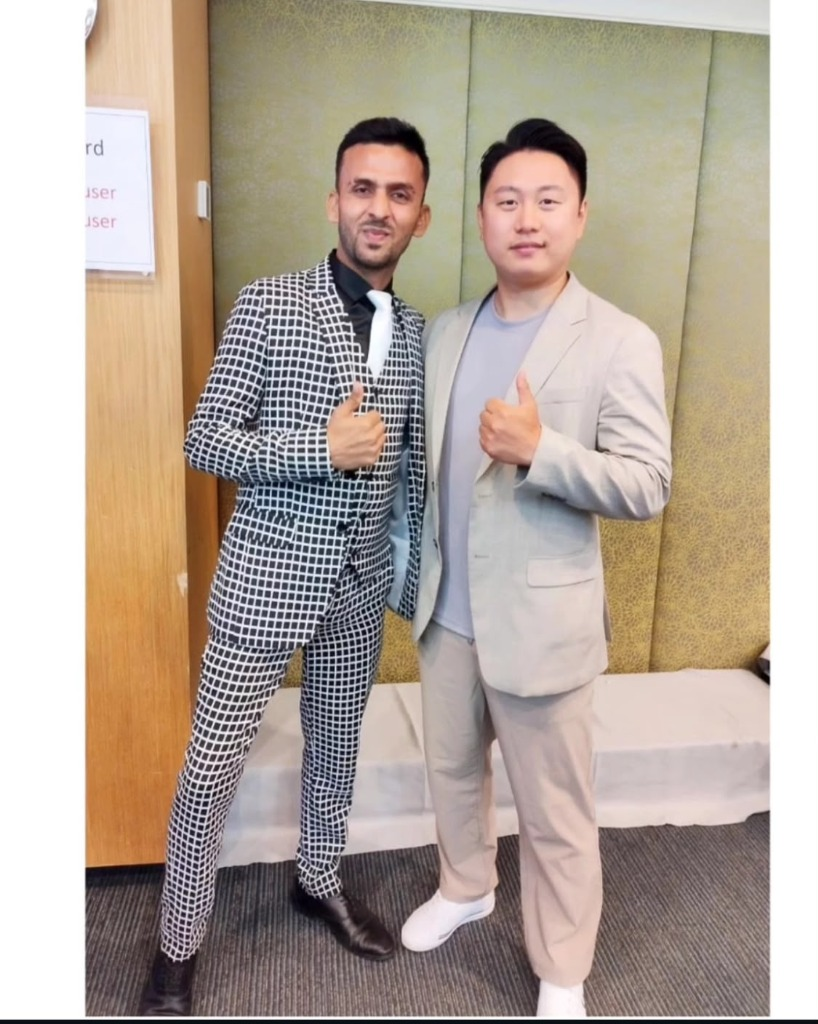
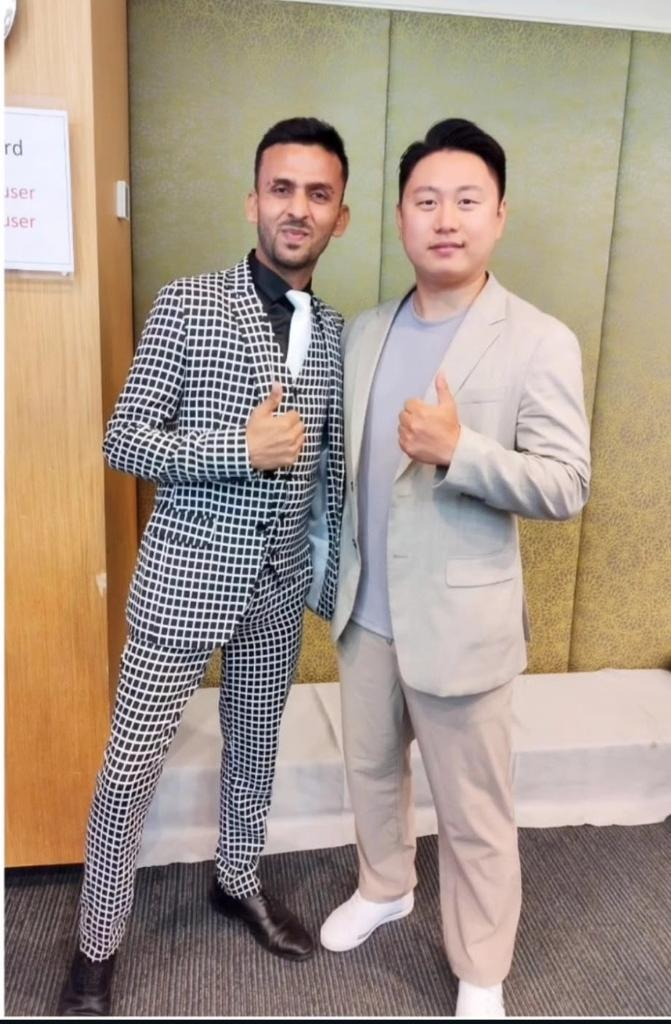
Trim white borders, update philosophy image to new_event_05, and include certificate milestone images in gallery

diff --git a/app/gallery/page.tsx b/app/gallery/page.tsx
@@ -1,5 +1,10 @@
 export default function Gallery() {
   const galleryItems = [
+    { src: '/certificates/cert_01.jpg', label: 'Foundation Program Certificate' },
+    { src: '/certificates/cert_02.jpg', label: 'Certificate of Appreciation' },
+    { src: '/certificates/cert_03.jpg', label: 'Recognition of Excellence' },
+    { src: '/certificates/cert_04.jpg', label: 'Leadership Advancement' },
+    { src: '/certificates/cert_05.jpg', label: 'Team Building & Performance' },
     { src: '/gallery/new_event_01.jpg', label: 'Executive Mentorship & Networking' },
     { src: '/gallery/new_event_02.jpg', label: 'Global Team Synergy' },
     { src: '/gallery/new_event_03.jpg', label: 'Strategic Planning Workshop' },
@@ -28,7 +33,7 @@ export default function Gallery() {
                 <span className="text-xs font-bold uppercase tracking-widest text-eros-gold">Team Moments & Culture</span>
                 <h1 className="font-heading text-4xl md:text-5xl font-bold text-slate-900 dark:text-white mt-2 mb-4">Our People & Culture</h1>
                 <p className="text-slate-600 dark:text-slate-400 text-lg leading-relaxed">
-                    A 100% authentic glimpse into real team moments, leadership workshops, international networking, and training sessions at Eros Inc.
+                    A 100% authentic glimpse into real team moments, certified achievers, leadership workshops, international networking, and training sessions at Eros Inc.
                 </p>
             </div>
 
@@ -36,7 +41,7 @@ export default function Gallery() {
             <div className="grid grid-cols-1 sm:grid-cols-2 lg:grid-cols-3 gap-6">
                 {galleryItems.map((item, idx) => (
                   <div key={idx} className="group relative rounded-2xl overflow-hidden aspect-[4/3] bg-slate-100 dark:bg-eros-card border border-slate-200 dark:border-eros-border shadow-md hover:shadow-2xl transition-all duration-300 transform hover:-translate-y-1">
-                      <img src={item.src} alt={item.label} className="w-full h-full object-cover group-hover:scale-105 transition-transform duration-500" />
+                      <img src={item.src} alt={item.label} className="w-full h-full object-cover object-top group-hover:scale-105 transition-transform duration-500" />
                       <div className="absolute inset-0 bg-gradient-to-t from-black/80 via-transparent to-transparent opacity-0 group-hover:opacity-100 transition-opacity duration-300 flex items-end p-4">
                           <span className="text-white font-medium text-xs tracking-wider uppercase bg-white/20 backdrop-blur-md px-3 py-1.5 rounded-full border border-white/30">
                               {item.label}

diff --git a/app/philosophy/page.tsx b/app/philosophy/page.tsx
@@ -53,7 +53,7 @@ export default function Philosophy() {
                 </div>
 
                 <div className="relative rounded-3xl overflow-hidden border border-slate-200 dark:border-eros-border shadow-2xl group aspect-[4/3]">
-                    <img src="/gallery/new_event_01.jpg" alt="Eros Inc Team & Culture" className="w-full h-full object-cover group-hover:scale-105 transition duration-500" />
+                    <img src="/gallery/new_event_05.jpg" alt="Eros Inc Team & Culture" className="w-full h-full object-cover object-top group-hover:scale-105 transition duration-500" />
                     <div className="absolute inset-0 bg-gradient-to-t from-black/80 via-black/20 to-transparent flex flex-col justify-end p-8">
                         <div className="inline-flex items-center gap-2 px-3 py-1 bg-eros-cyan/20 backdrop-blur-md rounded-full text-eros-cyan text-xs font-semibold w-fit mb-2 border border-eros-cyan/30">
                             <Sparkles className="w-3.5 h-3.5" /> 50+ Team Members Strong
